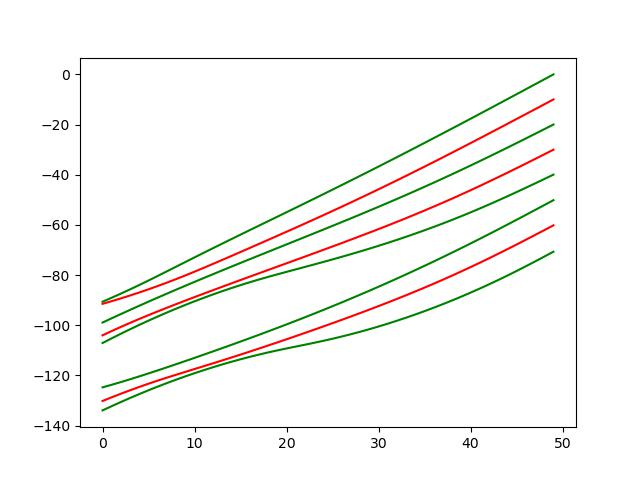
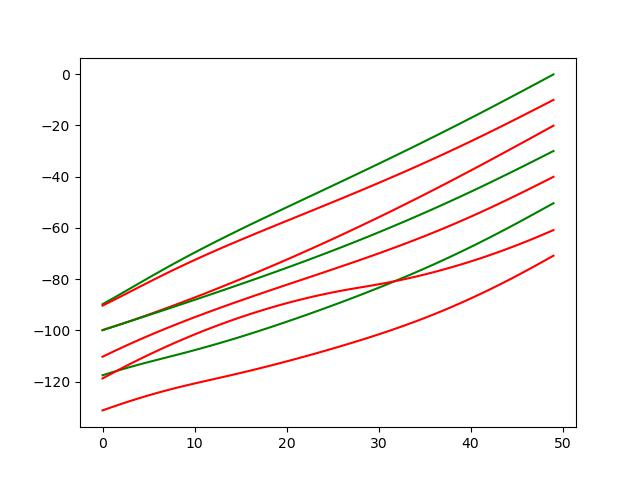
distrib MPC

diff --git a/solver_admm.py b/solver_admm.py
@@ -5,7 +5,7 @@ import osqp
 from scipy import sparse
 import scipy.io
 from env import EnvParam
-from utilit import suppress_stdout_stderr
+from utilit import suppress_stdout_stderr, JKCalculator
 import sys
 
 SDIM = dynamic_model.OneDimDynamic.SDIM
@@ -526,8 +526,12 @@ class ILMPC:
 
     CDIM = dynamic_model.BicycleModel.CDIM
     SDIM = dynamic_model.BicycleModel.SDIM
+    calor, dist = JKCalculator(30)
+    all_solver = {}
     
-    def __init__(self, x0: np.ndarray, run_times: int, x_ref: np.ndarray, pred_len: int = 30) -> None:
+    def __init__(self, solver_id: int, x0: np.ndarray, run_times: int, x_ref: np.ndarray, pred_len: int = 30) -> None:
+        self.solver_id = solver_id
+        ILMPC.all_solver[solver_id] = self
         self.current_time = 0
         self.x_current = x0
         self.x_ref_origin = x_ref
@@ -536,17 +540,20 @@ class ILMPC:
         self.pred_len = pred_len
         self.run_times = run_times
         assert self.ref_len >= run_times + pred_len
-        self.nominal_traj = self.GenNominalTraj(x0, None, self.pred_len)
+        self.nominal_traj = self.GenNominalTraj(x0, None, self.pred_len) # (x_bar, u_bar, x_safe_bar)
         self.Step = self.InitStep()
+        self.other_x_bar_for_safe = []
 
     def GenNominalTraj(self, x0: np.ndarray, u_bar: np.ndarray, T_nums: int) -> tuple:
         if u_bar is None:
             u_bar = np.zeros((T_nums, dynamic_model.BicycleModel.CDIM))
         else:
             assert T_nums == len(u_bar)
-        x_bar = dynamic_model.BicycleModel.roll(x0, u_bar, T_nums)[:-1]
+        x_bar_all = dynamic_model.BicycleModel.roll(x0, u_bar, T_nums)
+        x_bar = x_bar_all[:-1]
+        x_bar_safe = x_bar_all[1:]
         assert x_bar.shape[0] == u_bar.shape[0] == T_nums
-        return (x_bar, u_bar)
+        return (x_bar, u_bar, x_bar_safe)
 
     def InitStep(self):
         over_iter = 0
@@ -560,9 +567,19 @@ class ILMPC:
             Qx_big[-dynamic_model.BicycleModel.SDIM:, -dynamic_model.BicycleModel.SDIM:] = 5 * Qx
             Qu = np.eye(2) * 0.3
             Qu_big = np.kron(np.eye(self.pred_len), Qu)
-            P = BB.transpose() @ Qx_big @ BB + Qu_big
+
+            Safe_mat = np.zeros((self.pred_len * dynamic_model.BicycleModel.CDIM, self.pred_len * dynamic_model.BicycleModel.CDIM))
+            Safe_vec = np.zeros((self.pred_len * dynamic_model.BicycleModel.CDIM))
+            for x_bar_other in self.other_x_bar_for_safe:
+                # d = ILMPC.dist(self.nominal_traj[2], x_bar_other)
+                J, K = ILMPC.calor(self.nominal_traj[2], x_bar_other)
+                JB = J @ BB
+                Safe_mat += JB.transpose() @ JB
+                Safe_vec += JB.transpose() @ (J @ AA @ self.x_current + J @ GG + K)
+            
+            P = BB.transpose() @ Qx_big @ BB + Qu_big + Safe_mat
             P = sparse.csc_matrix(P)
-            q = BB.transpose() @ Qx_big @ (AA @ self.x_current + GG - self.x_ref_current.reshape((-1)))
+            q = BB.transpose() @ Qx_big @ (AA @ self.x_current + GG - self.x_ref_current.reshape((-1))) + Safe_vec
 
             # Ax = BB
             # Au = np.eye(self.pred_len * dynamic_model.BicycleModel.CDIM)
@@ -591,7 +608,7 @@ class ILMPC:
 
         def Step() -> tuple:
             nonlocal self, UpdateProb
-            for i in range(20):
+            for i in range(5):
                 with suppress_stdout_stderr():
                     u_opt = UpdateProb()
                 u_old = self.nominal_traj[1].copy()
@@ -615,8 +632,18 @@ class ILMPC:
 
         return Step
 
-        
-            
-            
-        
+    @staticmethod
+    def UpdateNominalOther():
+        for solver_ego_id in ILMPC.all_solver:
+            solver_ego = ILMPC.all_solver[solver_ego_id]
+            solver_ego.other_x_bar_for_safe = []
 
+            for solver_other_id in ILMPC.all_solver:
+                solver_other = ILMPC.all_solver[solver_other_id]
+                if solver_ego_id == solver_other_id:
+                    continue
+
+                dist = np.linalg.norm(solver_ego.x_current - solver_other.x_current)
+                if dist <= 15:
+                    solver_ego.other_x_bar_for_safe.append(solver_other.nominal_traj[2])
+        return

diff --git a/utilit.py b/utilit.py
@@ -169,8 +169,8 @@ class SceneDraw:
     
 class WatchOneVeh:
 
-    L = 4.5
-    W = 2.0
+    L = 4
+    W = 1.8
 
     L_ = L/2
     W_ = W/2
@@ -224,30 +224,38 @@ def JKCalculator(T_nums: int):
     x_ego = casadi.SX.sym('x_ego', 4 * T_nums)
     x_other = casadi.SX.sym('x_other', 4 * T_nums)
 
+    K = 1.1
+    W = 1.5
+
     dist = casadi.SX.sym('dist', 4 * T_nums)
     for i in range(T_nums):
-        dist[0 + i * 4] = (x_ego[0 + i * 4] - x_other[0 + i * 4] + casadi.cos(x_ego[2 + i * 4]) - casadi.cos(x_other[2 + i * 4]) ) ** 2 \
-                        + (x_ego[1 + i * 4] - x_other[1 + i * 4] + casadi.sin(x_ego[2 + i * 4]) - casadi.sin(x_other[2 + i * 4]) ) ** 2
+        dist[0 + i * 4] = (x_ego[0 + i * 4] - x_other[0 + i * 4] + K*casadi.cos(x_ego[2 + i * 4]) - K*casadi.cos(x_other[2 + i * 4]) ) ** 2 \
+                        + (x_ego[1 + i * 4] - x_other[1 + i * 4] + K*casadi.sin(x_ego[2 + i * 4]) - K*casadi.sin(x_other[2 + i * 4]) ) ** 2 - W
 
-        dist[1 + i * 4] = (x_ego[0 + i * 4] - x_other[0 + i * 4] + casadi.cos(x_ego[2 + i * 4]) + casadi.cos(x_other[2 + i * 4]) ) ** 2 \
-                        + (x_ego[1 + i * 4] - x_other[1 + i * 4] + casadi.sin(x_ego[2 + i * 4]) + casadi.sin(x_other[2 + i * 4]) ) ** 2
+        dist[1 + i * 4] = (x_ego[0 + i * 4] - x_other[0 + i * 4] + K*casadi.cos(x_ego[2 + i * 4]) + K*casadi.cos(x_other[2 + i * 4]) ) ** 2 \
+                        + (x_ego[1 + i * 4] - x_other[1 + i * 4] + K*casadi.sin(x_ego[2 + i * 4]) + K*casadi.sin(x_other[2 + i * 4]) ) ** 2 - W
 
-        dist[2 + i * 4] = (x_ego[0 + i * 4] - x_other[0 + i * 4] - casadi.cos(x_ego[2 + i * 4]) - casadi.cos(x_other[2 + i * 4]) ) ** 2 \
-                        + (x_ego[1 + i * 4] - x_other[1 + i * 4] - casadi.sin(x_ego[2 + i * 4]) - casadi.sin(x_other[2 + i * 4]) ) ** 2
+        dist[2 + i * 4] = (x_ego[0 + i * 4] - x_other[0 + i * 4] - K*casadi.cos(x_ego[2 + i * 4]) - K*casadi.cos(x_other[2 + i * 4]) ) ** 2 \
+                        + (x_ego[1 + i * 4] - x_other[1 + i * 4] - K*casadi.sin(x_ego[2 + i * 4]) - K*casadi.sin(x_other[2 + i * 4]) ) ** 2 - W
 
-        dist[3 + i * 4] = (x_ego[0 + i * 4] - x_other[0 + i * 4] - casadi.cos(x_ego[2 + i * 4]) + casadi.cos(x_other[2 + i * 4]) ) ** 2 \
-                        + (x_ego[1 + i * 4] - x_other[1 + i * 4] - casadi.sin(x_ego[2 + i * 4]) + casadi.sin(x_other[2 + i * 4]) ) ** 2
+        dist[3 + i * 4] = (x_ego[0 + i * 4] - x_other[0 + i * 4] - K*casadi.cos(x_ego[2 + i * 4]) + K*casadi.cos(x_other[2 + i * 4]) ) ** 2 \
+                        + (x_ego[1 + i * 4] - x_other[1 + i * 4] - K*casadi.sin(x_ego[2 + i * 4]) + K*casadi.sin(x_other[2 + i * 4]) ) ** 2 - W
 
-    dist_over = casadi.fmax(dist, casadi.SX.zeros(4 * T_nums))
+    dist_over = casadi.fmin(dist, casadi.SX.zeros(4 * T_nums))
     J = casadi.jacobian(dist_over, x_ego)
     F_J = casadi.Function('F_J', [x_ego, x_other], [J])
     F_K = casadi.Function('F_K', [x_ego, x_other], [dist_over - J @ x_ego])
+    F_d = casadi.Function('F_d', [x_ego, x_other], [dist_over])
 
     def Calculator(X_ebar: np.ndarray, X_obar: np.ndarray ) -> tuple:
         nonlocal T_nums
         assert T_nums == X_ebar.shape[0] == X_obar.shape[0]
         return (
             np.array(F_J(X_ebar.reshape(-1), X_obar.reshape(-1))), 
-            np.array(F_K(X_ebar.reshape(-1), X_obar.reshape(-1)))
+            np.array(F_K(X_ebar.reshape(-1), X_obar.reshape(-1))).reshape((-1,))
         )
-    return Calculator
+
+    def DistCalor(X_ebar: np.ndarray, X_obar: np.ndarray ) -> np.ndarray:
+        return np.array(F_d(X_ebar.reshape(-1), X_obar.reshape(-1)))
+        
+    return Calculator, DistCalor

diff --git a/main05_fulladmm.py b/main05_fulladmm.py
@@ -105,17 +105,20 @@ traj_len = run_len
 all_trace_for_draw = {}
 for id in managed_trace:
     trace = managed_trace[id]
-    mpc_solver = ILMPC(trace[0], run_len, trace)
+    mpc_solver = ILMPC(id, trace[0], run_len, trace)
 
-    act_trace = np.zeros((run_len, 4))
-    act_control = np.zeros((run_len, 2))
-    for t in tqdm(range(run_len)):
-        x_current, _ = mpc_solver.Step()
-        act_trace[t] = x_current
-        act_control[t] = _
-    all_trace_for_draw[id] = {'X': act_trace,
-                              'U': act_control,
-                              'lane': 'main'}
+    all_trace_for_draw[id] = {
+        'X' : np.zeros((run_len, 4)), 
+        'U' : np.zeros((run_len, 2)),
+        'lane' : 'main'
+    }
+
+for t in tqdm(range(run_len)):
+    ILMPC.UpdateNominalOther()
+    for id in ILMPC.all_solver:
+        x_current, _ = ILMPC.all_solver[id].Step()
+        all_trace_for_draw[id]['X'][t] = x_current
+        all_trace_for_draw[id]['U'][t] = _
 
 Drawer = SceneDraw(len(all_trace_for_draw), traj_len, all_trace_for_draw)
 Drawer.GenVideo()

diff --git a/env.py b/env.py
@@ -123,7 +123,8 @@ class EnvParam:
             if lane == 'merge':
                 ref_trace[:, 1] = -4
                 # find x >= 0 and x > 40
-                ind_ACC_LANE1 = np.nonzero(ref_trace[:, 0] >= 0)[0][0]
+                # ind_ACC_LANE1 = np.nonzero(ref_trace[:, 0] >= 0)[0][0]
+                ind_ACC_LANE1 = np.nonzero(ref_trace[:, 0] >= -EnvParam.ACC_LANE1)[0][0]
                 ind_ACC_LANE2 = np.nonzero(ref_trace[:, 0] >= EnvParam.ACC_LANE2)[0][0]
                 # change_ind = int(0.5 * (ind_ACC_LANE1 + ind_ACC_LANE2))
                 # ref_trace[change_ind:, 1] = 0

diff --git a/dynamic_model.py b/dynamic_model.py
@@ -57,7 +57,8 @@ class OneDimDynamic:
 
 class BicycleModel:
     Td = 0.1
-    L = 4.5
+    L = 4
+    W = 1.8
     SDIM = 4
     CDIM = 2
     a_max = 5.0
